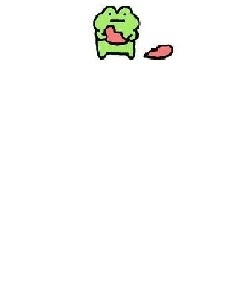
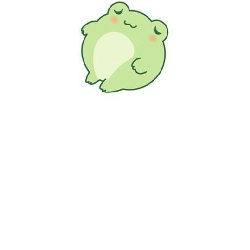
RELEASE: 1.4.0
* Реализовано: пользователи, роль пользователя, мгновенное отправляемых для кеширования фотографий сообщений, реализован новый метод для переноса строк предсказаний

* bump version

Changed region(s): [[0.308, 0.0, 0.7, 0.392]]

diff --git a/src/main/java/me/hippy/prdsz/config/BotConfiguration.java b/src/main/java/me/hippy/prdsz/config/BotConfiguration.java
@@ -5,11 +5,14 @@ import lombok.RequiredArgsConstructor;
 import lombok.SneakyThrows;
 import lombok.extern.slf4j.Slf4j;
 import me.hippy.prdsz.dao.WishRepository;
+import me.hippy.prdsz.dto.InputUserDto;
+import me.hippy.prdsz.enums.UserRoleKey;
 import me.hippy.prdsz.handler.CommandHandler;
 import me.hippy.prdsz.handler.InlineQueryHandler;
 import me.hippy.prdsz.handler.TextMessageHandler;
 import me.hippy.prdsz.model.Wish;
 import me.hippy.prdsz.service.PictureService;
+import me.hippy.prdsz.service.UserService;
 import me.hippy.prdsz.service.WishService;
 import org.springframework.beans.factory.annotation.Value;
 import org.springframework.scheduling.annotation.EnableScheduling;
@@ -17,9 +20,11 @@ import org.springframework.scheduling.annotation.Scheduled;
 import org.springframework.stereotype.Service;
 import org.telegram.telegrambots.bots.TelegramLongPollingBot;
 import org.telegram.telegrambots.meta.api.methods.send.SendPhoto;
+import org.telegram.telegrambots.meta.api.methods.updatingmessages.DeleteMessage;
 import org.telegram.telegrambots.meta.api.objects.InputFile;
 import org.telegram.telegrambots.meta.api.objects.Message;
 import org.telegram.telegrambots.meta.api.objects.Update;
+import org.telegram.telegrambots.meta.api.objects.User;
 import org.telegram.telegrambots.meta.exceptions.TelegramApiException;
 
 import java.io.File;
@@ -31,6 +36,7 @@ import java.util.List;
 @RequiredArgsConstructor
 public class BotConfiguration extends TelegramLongPollingBot {
 
+    private final UserService userService;
     @Value("${telegram.secret.token}")
     private String token;
 
@@ -39,6 +45,9 @@ public class BotConfiguration extends TelegramLongPollingBot {
 
     @Value("${telegram.first-init}")
     private boolean firstInit;
+
+    @Value("${telegram.authorId}")
+    private String authorId;
 
     private final InlineQueryHandler inlineQueryHandler;
     private final CommandHandler commandHandler;
@@ -50,6 +59,7 @@ public class BotConfiguration extends TelegramLongPollingBot {
     @Override
     public void onUpdateReceived(Update update) {
         if (update.hasInlineQuery()) {
+            registerNewUser(update.getInlineQuery().getFrom());
             try {
                 executeAsync(inlineQueryHandler.handle(update));
             } catch (TelegramApiException e) {
@@ -58,8 +68,8 @@ public class BotConfiguration extends TelegramLongPollingBot {
         }
 
         if (update.getMessage() != null) {
+            registerNewUser(update.getMessage().getFrom());
             var message = update.getMessage();
-            Long authorId = message.getFrom().getId();
 
             if (message.isCommand()) {
                 try {
@@ -69,16 +79,14 @@ public class BotConfiguration extends TelegramLongPollingBot {
                 }
             }
 
-            if (authorId == 6120919007L) {
-                if (message.getText() != null) {
-                    try {
-                        var apiMethod = textMessageHandler.handle(update);
-                        if (apiMethod != null) {
-                            executeAsync(apiMethod);
-                        }
-                    } catch (TelegramApiException e) {
-                        log.error("Telegram integration error: " + e.getMessage());
+            if (message.getText() != null) {
+                try {
+                    var apiMethod = textMessageHandler.handle(update);
+                    if (apiMethod != null) {
+                        executeAsync(apiMethod);
                     }
+                } catch (TelegramApiException e) {
+                    log.error("Telegram integration error: " + e.getMessage());
                 }
             }
         }
@@ -92,6 +100,15 @@ public class BotConfiguration extends TelegramLongPollingBot {
     @Override
     public String getBotToken() {
         return this.token;
+    }
+
+    private void registerNewUser(User user) {
+        if (userService.findByTelegramId(user.getId()) == null) {
+            userService.create(InputUserDto.builder()
+                    .roleKey(UserRoleKey.DEFAULT)
+                    .telegramId(user.getId())
+                    .build());
+        }
     }
 
     @SneakyThrows
@@ -110,12 +127,19 @@ public class BotConfiguration extends TelegramLongPollingBot {
             File file = pictureService.generatePicture(wish);
             SendPhoto sendPhoto = SendPhoto.builder()
                     .photo(new InputFile(file))
-                    .chatId(getMe().getId())
+                    .chatId(authorId)
                     .build();
 
-            Message execute = execute(sendPhoto);
-            String fileId = execute.getPhoto().getFirst().getFileId();
+            Message response = execute(sendPhoto);
+            String fileId = response.getPhoto().getFirst().getFileId();
             wish.setLinkToTelegramPhoto(fileId);
+
+            DeleteMessage deleteMessage = DeleteMessage.builder()
+                    .messageId(response.getMessageId())
+                    .chatId(authorId)
+                    .build();
+            execute(deleteMessage);
+
             file.delete();
         }
 

diff --git a/src/main/java/me/hippy/prdsz/handler/TextMessageHandler.java b/src/main/java/me/hippy/prdsz/handler/TextMessageHandler.java
@@ -2,7 +2,10 @@ package me.hippy.prdsz.handler;
 
 import lombok.RequiredArgsConstructor;
 import lombok.extern.slf4j.Slf4j;
+import me.hippy.prdsz.enums.UserRoleKey;
+import me.hippy.prdsz.model.User;
 import me.hippy.prdsz.model.Wish;
+import me.hippy.prdsz.service.UserService;
 import me.hippy.prdsz.service.WishService;
 import org.springframework.stereotype.Component;
 import org.telegram.telegrambots.meta.api.methods.ParseMode;
@@ -15,27 +18,33 @@ import org.telegram.telegrambots.meta.api.objects.Update;
 public class TextMessageHandler implements TelegramUpdateHandler {
 
     private final WishService wishService;
+    private final UserService userService;
 
     @Override
     public SendMessage handle(Update update) {
         var text = update.getMessage().getText();
         var authorId = update.getMessage().getFrom().getId();
+        User user = userService.findByTelegramId(authorId);
 
         if (text.startsWith("/insert ")) {
-            Long chatId = update.getMessage().getChatId();
-            var content = text.split("/insert ")[1];
-            var wish = new Wish();
-            wish.setContent(content);
-            wishService.create(wish);
+            if (user.getUserRole().getKey().equals(UserRoleKey.ADMIN)
+                    || user.getUserRole().getKey().equals(UserRoleKey.EDITOR)) {
+                Long chatId = update.getMessage().getChatId();
+                var content = text.split("/insert ")[1];
 
-            var sendMessage = SendMessage.builder()
-                    .parseMode(ParseMode.MARKDOWN)
-                    .text("Добавлено предсказание с содержанием: " + content)
-                    .chatId(chatId)
-                    .build();
+                var wish = new Wish();
+                wish.setContent(content);
+                wishService.create(wish);
 
-            log.info("Added new wish by adm with ID: {}", authorId);
-            return sendMessage;
+                var sendMessage = SendMessage.builder()
+                        .parseMode(ParseMode.MARKDOWN)
+                        .text("Добавлено предсказание с содержанием: " + content)
+                        .chatId(chatId)
+                        .build();
+
+                log.info("Added new wish by adm with ID: {}", authorId);
+                return sendMessage;
+            }
         }
 
         return null;

diff --git a/src/main/java/me/hippy/prdsz/service/PictureService.java b/src/main/java/me/hippy/prdsz/service/PictureService.java
@@ -33,7 +33,7 @@ public class PictureService {
         File createdFile;
 
         try {
-            int y = 100;
+            int y = 130;
             File file = Path.of(path, wish.getWishPicture().getPath()).toAbsolutePath().toFile();
 
             BufferedImage bufferedImage = ImageIO.read(file);
@@ -51,7 +51,7 @@ public class PictureService {
                 }
 
                 graphics.drawString(str, 20, y);
-                y += 40;
+                y += 25;
             }
 
             createdFile = new File(file.getAbsolutePath().replace(
@@ -77,8 +77,46 @@ public class PictureService {
     }
 
     public String insert(String text, String insert, int period) {
-        Pattern p = Pattern.compile("(.*" + period + "})", Pattern.DOTALL);
-        Matcher m = p.matcher(text);
-        return m.replaceAll("$1" + insert);
+        char[] chars = text.toCharArray();
+        StringBuilder result = new StringBuilder();
+        boolean swap = false;
+        int current = 0;
+
+        for (int i = 0; i < chars.length; i++) {
+            current++;
+
+            if (i != 0 && i % period == 0 && chars[i] == ' ') {
+                result.append(insert);
+                continue;
+            }
+
+            if (swap && chars[i] == ' ') {
+                swap = false;
+                result.append(insert);
+                current = 0;
+                continue;
+            }
+
+            if (i != 0 && i % period == 0.0 && chars[i] != ' ') {
+                result.append(chars[i]);
+                swap = true;
+                continue;
+            }
+
+            int periodToMuch = period + 3;
+            if (current > periodToMuch && swap && Pattern.matches("[а-яА-Я]", String.valueOf(chars[i]))) {
+                swap = false;
+                result.append(chars[i])
+                        .append("-")
+                        .append(insert)
+                        .append("-");
+                current = 0;
+                continue;
+            }
+
+            result.append(chars[i]);
+        }
+
+        return result.toString();
     }
 }

diff --git a/src/main/java/me/hippy/prdsz/service/UserService.java b/src/main/java/me/hippy/prdsz/service/UserService.java
@@ -1,0 +1,37 @@
+package me.hippy.prdsz.service;
+
+import lombok.RequiredArgsConstructor;
+import me.hippy.prdsz.dao.UserRepository;
+import me.hippy.prdsz.dao.UserRoleRepository;
+import me.hippy.prdsz.dto.InputUserDto;
+import me.hippy.prdsz.model.User;
+import org.springframework.stereotype.Service;
+import org.springframework.transaction.annotation.Transactional;
+
+/**
+ * Сервис по работе с пользователями.
+ *
+ * @author hippy
+ */
+@Service
+@RequiredArgsConstructor
+public class UserService {
+
+    private final UserRepository userRepository;
+    private final UserRoleRepository userRoleRepository;
+
+    @Transactional
+    public void create(InputUserDto userDto) {
+        User user = new User();
+
+        user.setUserRole(userRoleRepository.findByKey(userDto.getRoleKey()).get());
+        user.setTelegramId(userDto.getTelegramId());
+
+        userRepository.save(user);
+    }
+
+    @Transactional(readOnly = true)
+    public User findByTelegramId(Long telegramId) {
+        return userRepository.findByTelegramId(telegramId).orElse(null);
+    }
+}

diff --git a/src/main/java/me/hippy/prdsz/model/User.java b/src/main/java/me/hippy/prdsz/model/User.java
@@ -3,6 +3,7 @@ package me.hippy.prdsz.model;
 import jakarta.persistence.*;
 import lombok.Getter;
 import lombok.Setter;
+import org.hibernate.annotations.ColumnDefault;
 
 /**
  * Сущность "Пользователь"
@@ -21,6 +22,8 @@ public class User {
 
     @JoinColumn(nullable = false)
     @ManyToOne
-    private UserRole key;
+    private UserRole userRole;
 
+    @Column(nullable = false, unique = true, updatable = false)
+    private Long telegramId;
 }

diff --git a/src/main/java/me/hippy/prdsz/dao/UserRoleRepository.java b/src/main/java/me/hippy/prdsz/dao/UserRoleRepository.java
@@ -1,0 +1,14 @@
+package me.hippy.prdsz.dao;
+
+import me.hippy.prdsz.enums.UserRoleKey;
+import me.hippy.prdsz.model.UserRole;
+import org.springframework.data.jpa.repository.JpaRepository;
+import org.springframework.stereotype.Repository;
+
+import java.util.Optional;
+
+@Repository
+public interface UserRoleRepository extends JpaRepository<UserRole, Integer> {
+
+    Optional<UserRole> findByKey(UserRoleKey key);
+}

diff --git a/src/main/java/me/hippy/prdsz/dto/InputUserDto.java b/src/main/java/me/hippy/prdsz/dto/InputUserDto.java
@@ -1,0 +1,16 @@
+package me.hippy.prdsz.dto;
+
+import lombok.Builder;
+import lombok.Getter;
+import lombok.Setter;
+import me.hippy.prdsz.enums.UserRoleKey;
+
+@Getter
+@Setter
+@Builder
+public class InputUserDto {
+
+    private UserRoleKey roleKey;
+
+    private Long telegramId;
+}

diff --git a/src/main/java/me/hippy/prdsz/enums/WishPicture.java b/src/main/java/me/hippy/prdsz/enums/WishPicture.java
@@ -14,7 +14,8 @@ public enum WishPicture {
 
     BROKEN_HEART_FROG("broken-frog.jpg"),
     RAINY_FROG("rainy-frog.jpg"),
-    SLEEPY_FROG("sleepy-frog.jpg"),;
+    SLEEPY_FROG("sleepy-frog.jpg"),
+    LUCKY_FROG("lucky-frog.jpg");
 
     private final String path;
 }

diff --git a/src/main/java/me/hippy/prdsz/model/UserRole.java b/src/main/java/me/hippy/prdsz/model/UserRole.java
@@ -17,6 +17,7 @@ public class UserRole {
     private Long id;
 
     @Column(nullable = false, updatable = false)
+    @Enumerated(EnumType.STRING)
     private UserRoleKey key;
 
     @OneToMany(mappedBy = "userRole", fetch = FetchType.LAZY)
